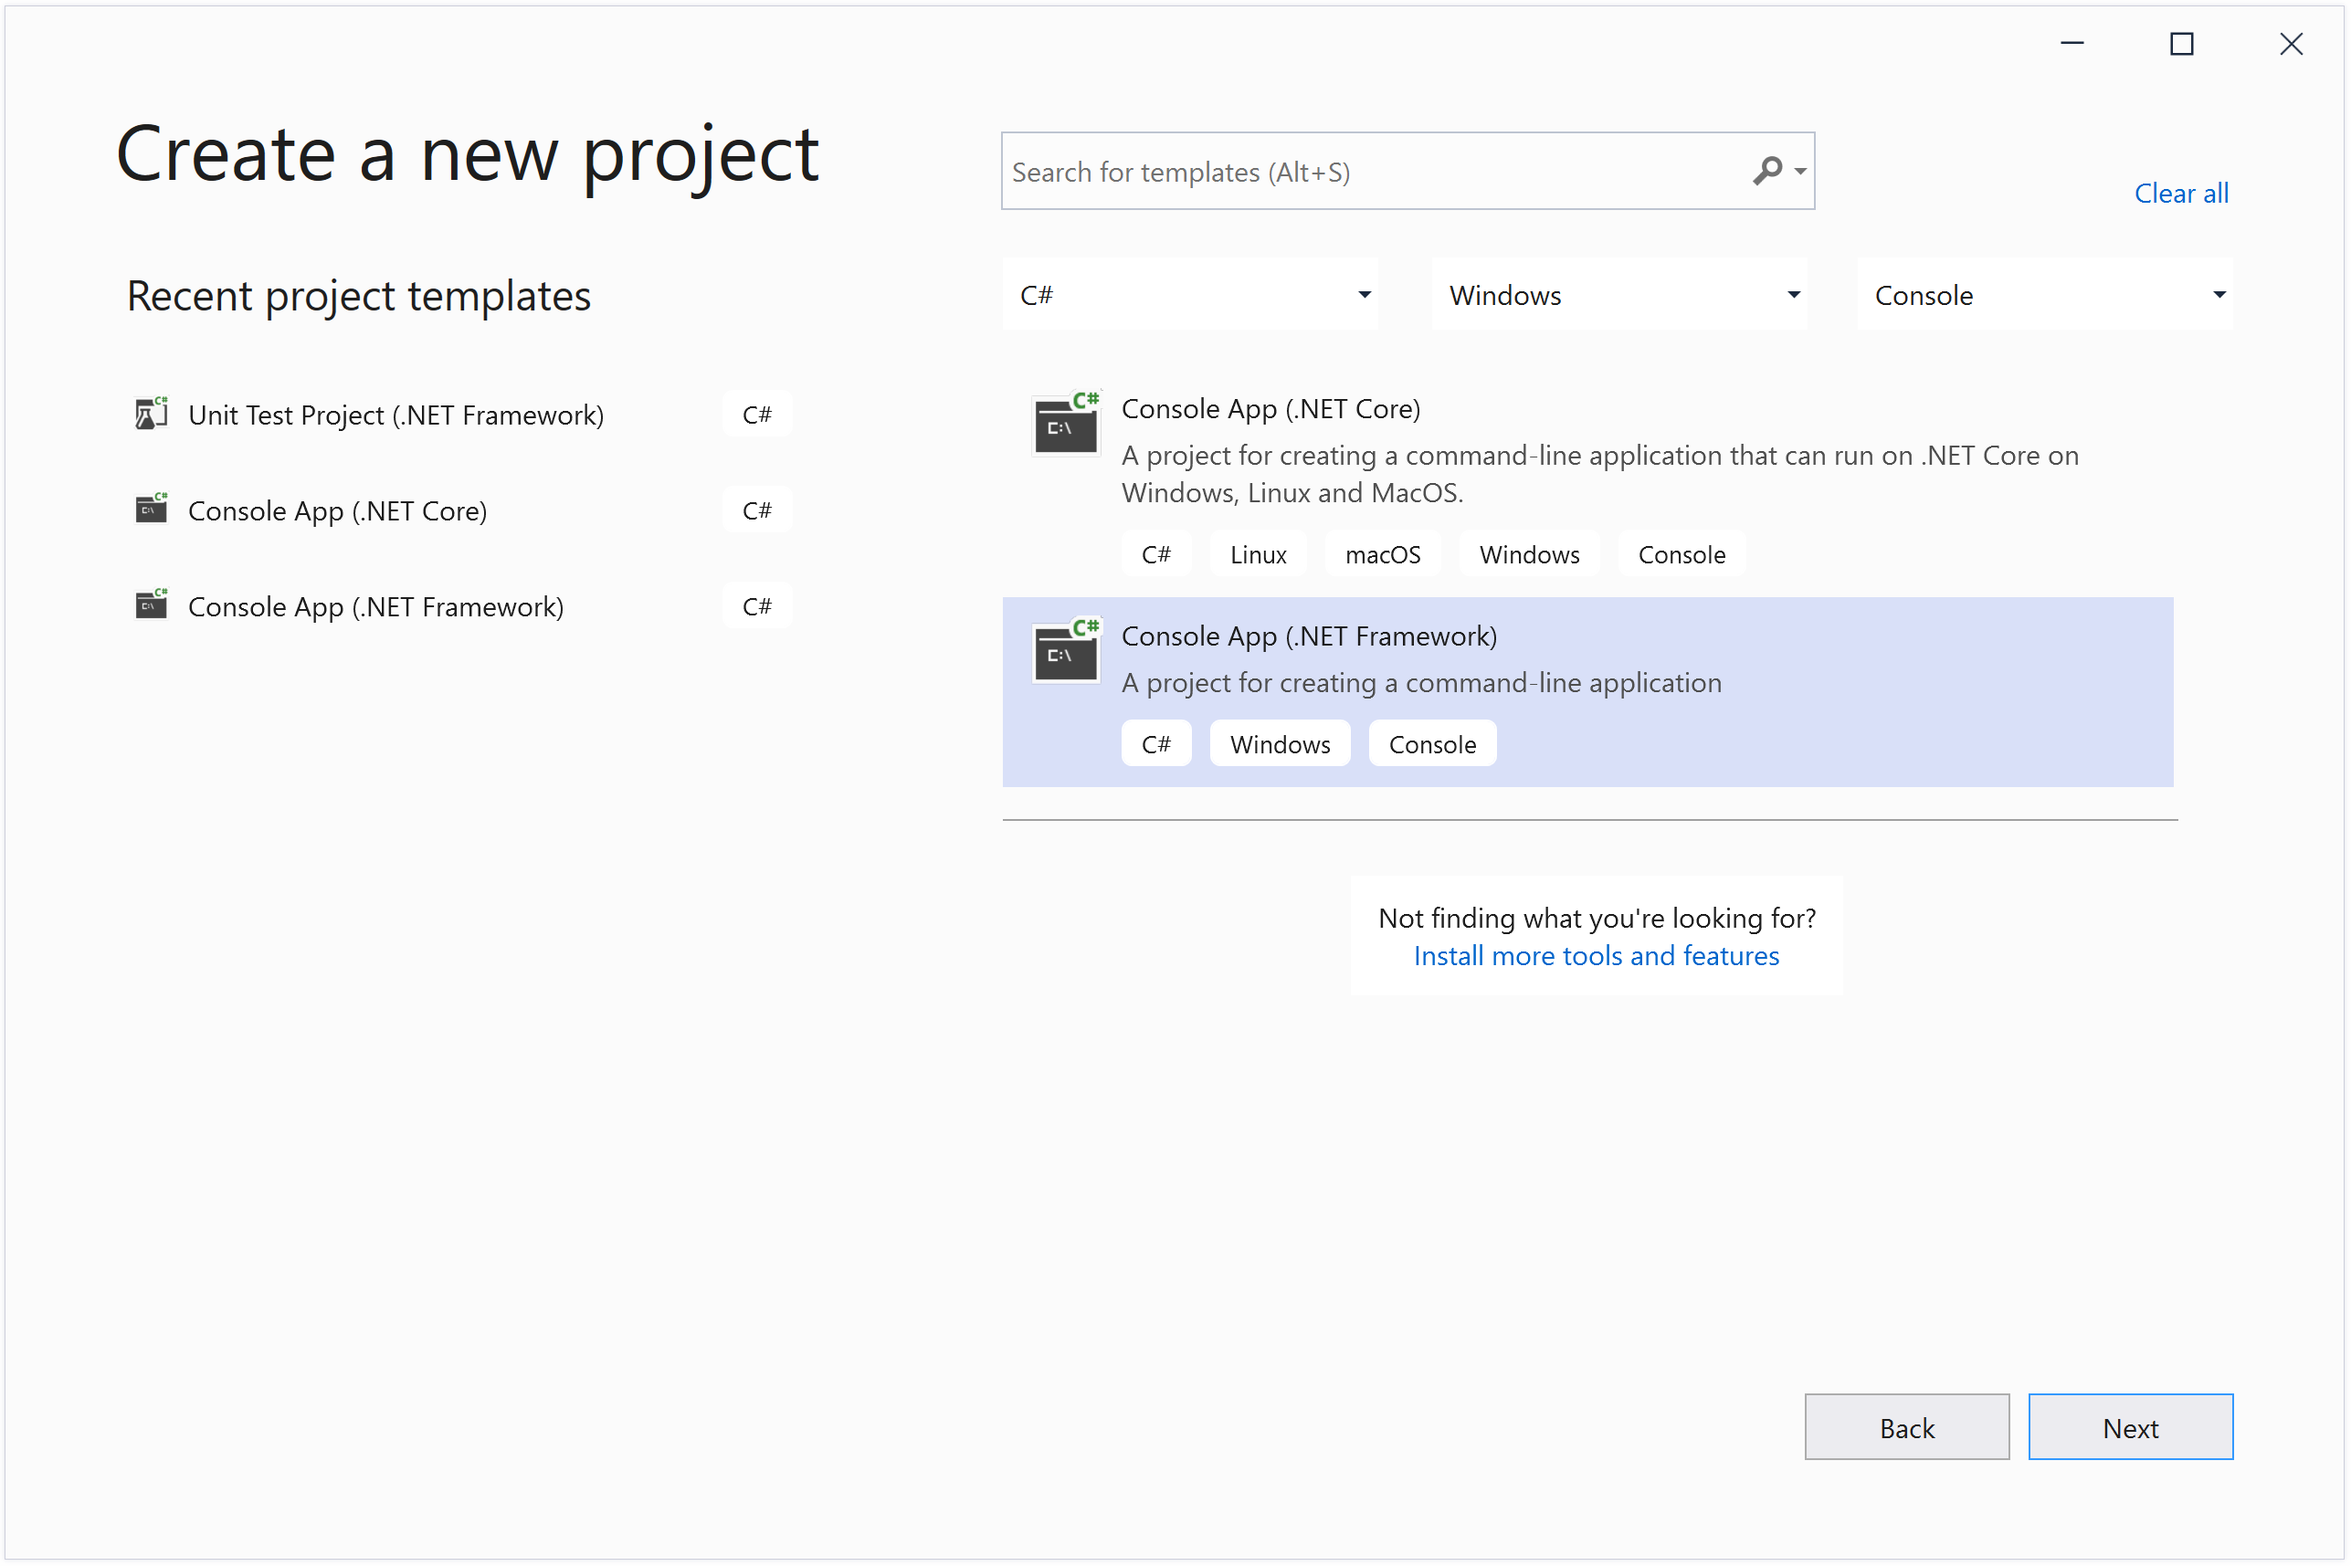
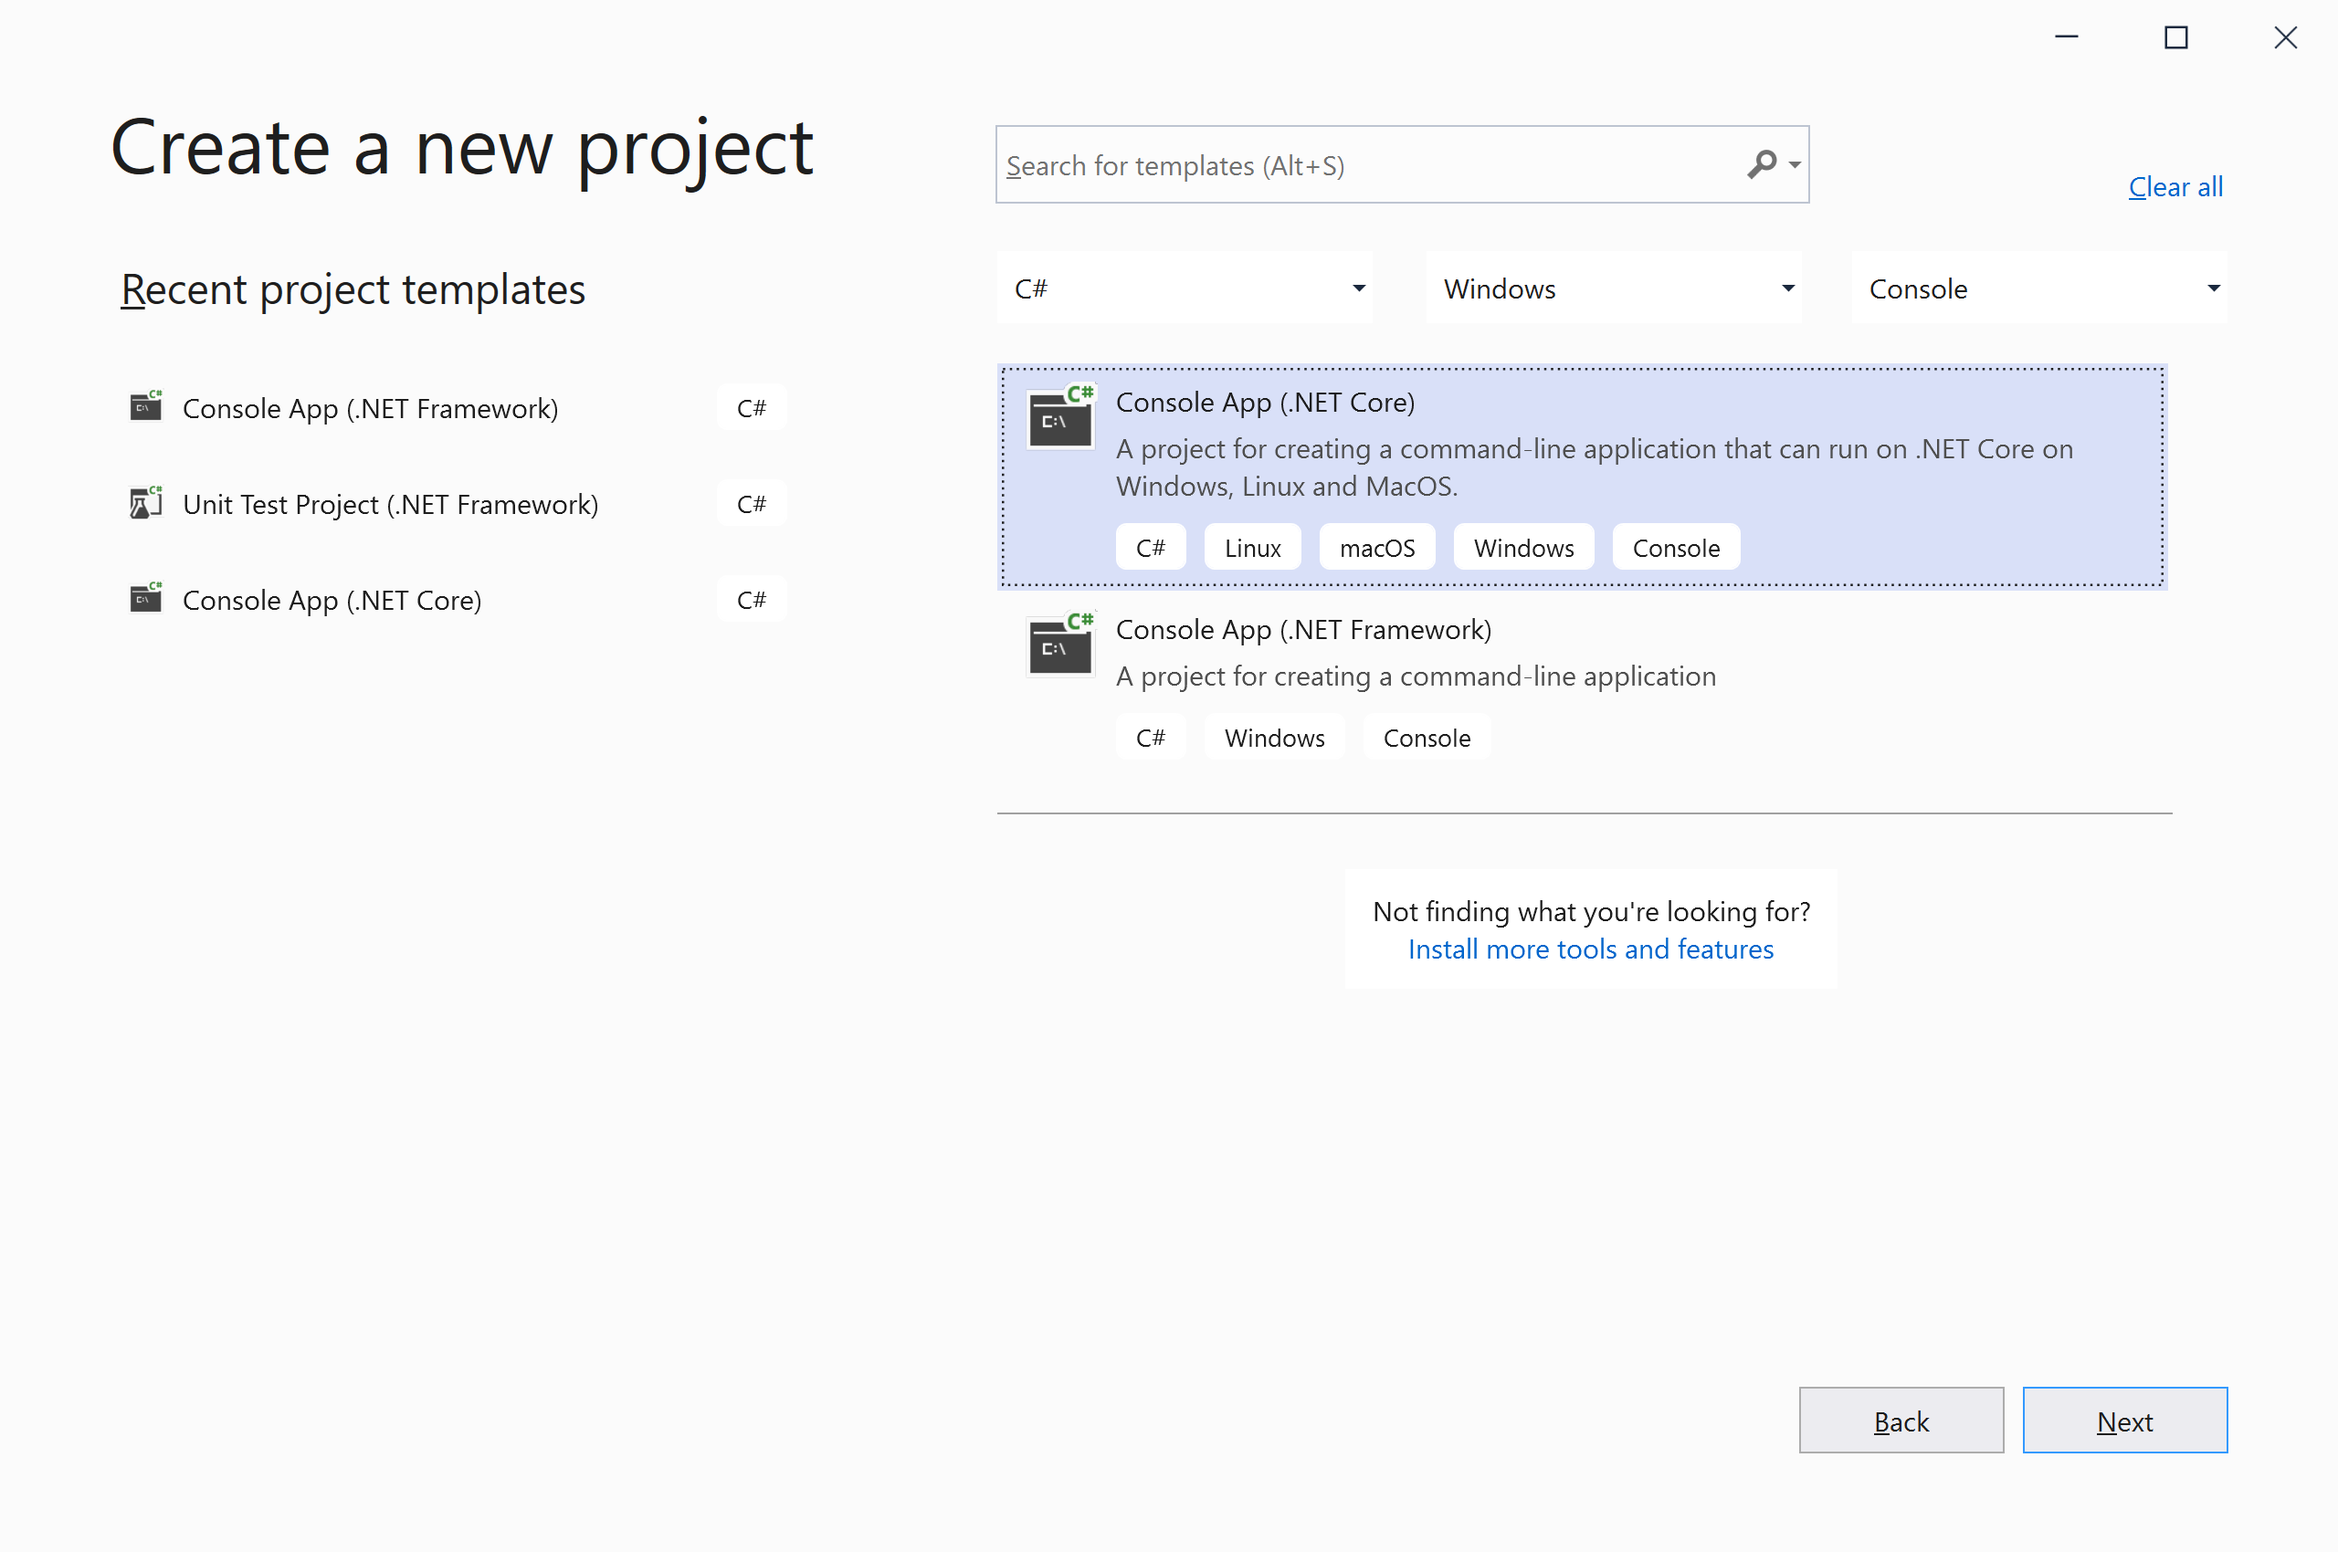
updated the project to .NET Core

diff --git a/tutorials/csharp-tutorial/environment-setup.md b/tutorials/csharp-tutorial/environment-setup.md
@@ -48,7 +48,7 @@ Select the **Create a new project** option.
 
 <img src="https://raw.githubusercontent.com/zzzprojects/learn-orm/master/tutorials/csharp-tutorial/images/setup-5.png">
 
-Choose **C#** as language, **Windows** as platform and **Console** as project type. In the template pane, select **Console App (.NET Framework)** and click **Next** button.
+Choose **C#** as language, **Windows** as platform and **Console** as project type. In the template pane, select **Console App (.NET Core)** and click **Next** button.
 
 <img src="https://raw.githubusercontent.com/zzzprojects/learn-orm/master/tutorials/csharp-tutorial/images/setup-6.png">
 
@@ -85,3 +85,8 @@ Let's run the application by clicking on the **Debug > Start Without Debugging**
 
 <img src="https://raw.githubusercontent.com/zzzprojects/learn-orm/master/tutorials/csharp-tutorial/images/setup-8.png">
 
+You will see the following output.
+
+```csharp
+Welcome to C# Tutorial.
+```
